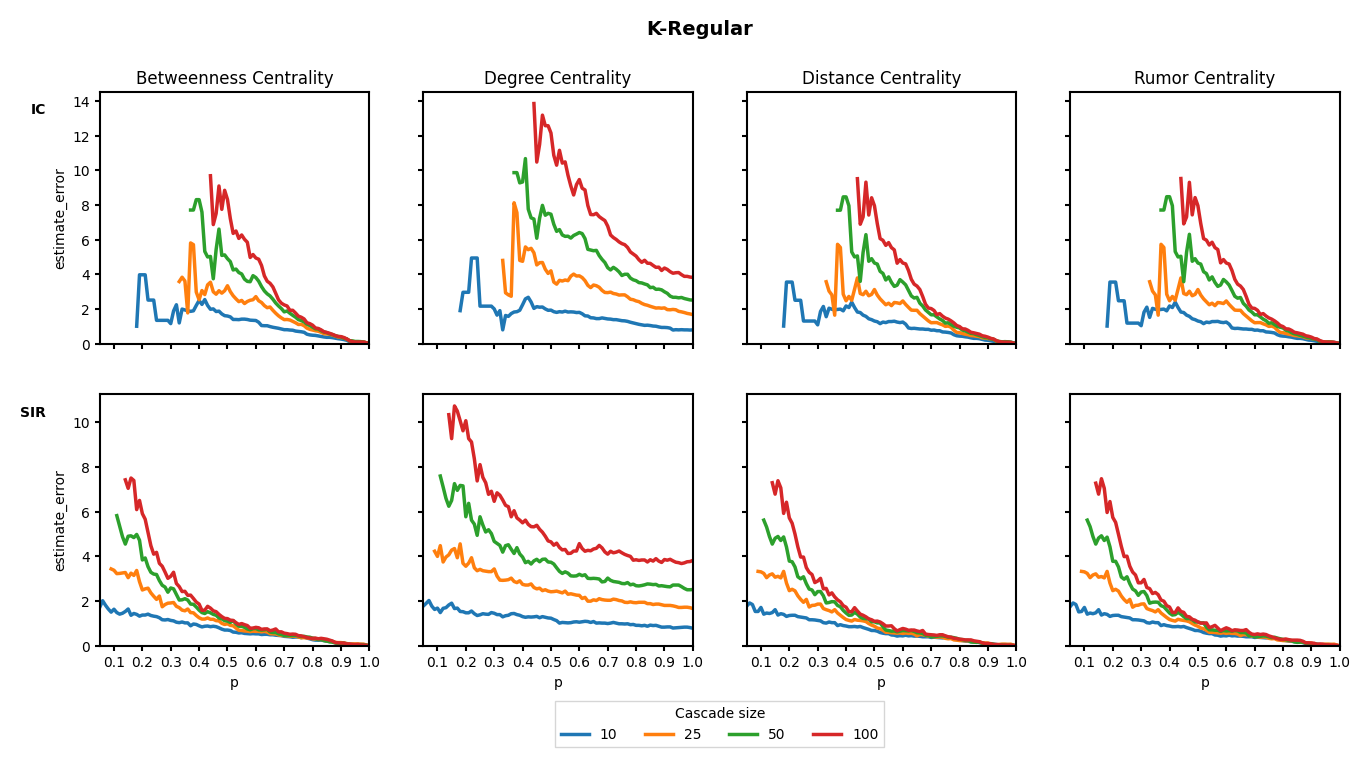
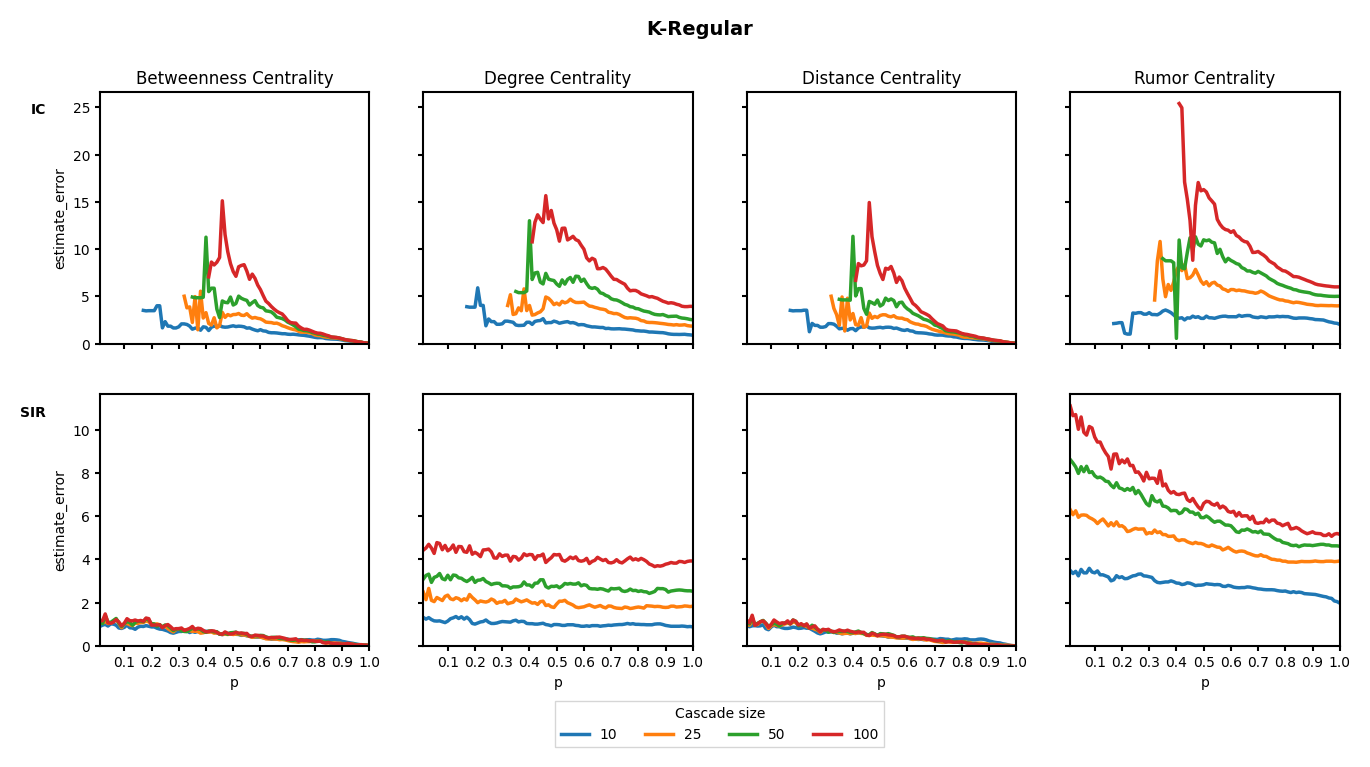
fix

diff --git a/src/patient_zero/experiments/centrality.py b/src/patient_zero/experiments/centrality.py
@@ -4,26 +4,56 @@ Centrality measures
 import math
 import networkx as nx
 
-def dfs(n: int, p: int | None, bfs_tree: nx.DiGraph, subtree_sizes: set) -> int:
+def compute_subtree_sizes(tree: nx.DiGraph, node: int, parent: int | None, subtree: dict[int, int], log_prod: dict[int, float]):
     """Run DFS from node n with parent p to recursiely get the subtree size all nodes.
 
     Args:
-        n (int): Root of dfs.
-        p (int | None): Parent node. None when n is root.
-        bfs_tree (nx.DiGraph): The bfs tree graph to run the search on.
-        subtree_sizes (set): The set of subtree sizes for all nodes in bfs_tree.
-
-    Returns:
-        int: The subtree size of node n.
+        tree (nx.DiGraph): The bfs tree graph to run the search on.
+        node (int): The current node being visited (parent in the first call).
+        parent (int | None): Parent node. None when n is root.
+        subtree (dict): The dictionary of subtree sizes for all nodes in the tree.
     """
-    subtree_sizes[n] = 1 # Root size is 1.
-    for neighbor in bfs_tree.neighbors(n): # Loops over neighbors in the BFS tree.
-        if neighbor != p:
-            subtree_sizes[n] += dfs(neighbor, n, bfs_tree, subtree_sizes) # Recursively calls itself with the new neighbor node and Calculates the subtree size.
-    return subtree_sizes[n]
+    subtree[node] = 1 # Root size is 1.
+    log_prod[node] = 0.0 # Cumulative product (log(1) = 0)
 
-def rumor_centrality(cascade: nx.Graph) -> dict:
+    for neighbor in tree.neighbors(node): # Loops over neighbors in the BFS tree.
+        if neighbor == parent:
+            continue
+        # Recursively calls itself with the new neighbor node and calculates the subtree size.
+        compute_subtree_sizes(tree, neighbor, node, subtree, log_prod)
+
+        # The below is described in sec. 3.2 of Who's the Culprit.
+        subtree[node] += subtree[neighbor] # Message passing of subtree sizes
+        # log_prod corresponds to taking the product of all subtree sizes rooted at root (the denominator of the fraction)
+        # log(s1 * s2 * ...) = log(s1) + log(s2) + ...
+        log_prod[node] += math.log(subtree[neighbor]) # Message passing of commulative product
+
+    log_prod[node] += math.log(subtree[node]) # Include current nodes subtree
+
+
+def propagate_scores(tree: nx.DiGraph, node: int, parent: int | None, subtree: dict, scores: dict[int, float], n: int):
+    """DFS to propagate rumor centrality scores on a BFS tree.
+
+    Args:
+        tree (nx.DiGraph): The BFS tree of the cascade graph.
+        node (int): The current node being visited (parent in the first call).
+        parent (int | None): The parent of the current node in the DFS. None when node is root.
+        subtree (dict): Dictionary mapping each node to the size of its subtree.
+        scores (dict[int, float]): Dictionary storing the log rumor centrality scores for each node.
+        n (int): Total number of nodes in the tree.
+    """
+    for nbr in tree.neighbors(node):
+        if nbr == parent:
+            continue
+        scores[nbr] = scores[node] + math.log(n - subtree[nbr]) - math.log(subtree[nbr])
+        propagate_scores(tree, nbr, node, subtree, scores, n)
+
+
+def rumor_centrality(cascade: nx.Graph) -> dict[int, float]:
     """Calculates the rumor centrality for all nodes in a graph.
+    Note: For general graphs with cycles, this function computes rumor centrality
+    approximately using BFS trees rooted at each node, following the approach
+    from "Who's the Culprit?" by Shah & Zaman (2011).
 
     Args:
         cascade (nx.Graph): NetworkX graph.
@@ -31,22 +61,36 @@ def rumor_centrality(cascade: nx.Graph) -> dict:
     Returns:
         dict: Dictionary of nodes and their rumor score.
     """
-    node_scores = {}
-    
-    for node in list(cascade.nodes): # Loops through every node in the cascade and calculates the rumor score for that node.
-        bfs_tree = nx.bfs_tree(cascade, node) # Creates a BFS tree for that specific node.
-        subtree_sizes = {}
-        dfs(node, None, bfs_tree, subtree_sizes) # Uses Depth-First-Search on the node with the BFS tree to calculate subtree sizes.
-        
-        prod = 0
-        for tree_node in bfs_tree.nodes: # Computes the product of all subtree sizes.
-            prod += math.log(subtree_sizes[tree_node]) # prod = product of T[u] for all nodes u in the BFS tree.
-        
-        if prod == 0.0: # If the cascade is one return a default score of 1
-            node_scores[node] = 1
-            return node_scores
-        node_scores[node] = -math.log(prod) # Compute root's rumor centrality. R(root) = n! / prod = -ln(prod)
-    return node_scores
+    all_scores = {}
+    n = cascade.number_of_nodes()
+
+    is_tree_graph = nx.is_tree(cascade)
+    for root in cascade.nodes: # Loops through every node in the cascade and calculates the rumor score for that node.
+        # Create BFS tree rooted at the candidate node
+        if is_tree_graph: # No need to compute BFS tree for general trees.
+            tree_to_use = cascade
+        else:
+            tree_to_use = nx.bfs_tree(cascade, root)
+
+        # Compute subtree sizes
+        subtree = {}
+        log_prod = {}
+        # Uses Depth-First-Search on the node with the BFS tree to calculate subtree sizes and log_prod via message passing.
+        compute_subtree_sizes(tree_to_use, root, None, subtree, log_prod)
+
+        # math.lgamma(n+1) = log(n!). log(A/B) is the same as log(A) - log(B)
+        scores = {}
+        scores[root] = math.lgamma(n + 1) - log_prod[root]
+
+        if is_tree_graph:
+            # Propagate scores down the tree
+            propagate_scores(tree_to_use, root, None, subtree, scores, n)
+            return scores # no need to run dfs mulitple times for general trees
+
+        # Store the score of the root
+        all_scores[root] = scores[root] # Just compare rumor centralities as log form to avoid overflow.
+
+    return all_scores
 
 
 def degree_centrality(cascade: nx.Graph) -> dict:

diff --git a/src/patient_zero/experiments/simulations.py b/src/patient_zero/experiments/simulations.py
@@ -9,7 +9,7 @@ from concurrent.futures import ProcessPoolExecutor, as_completed
 import pickle
 import numpy as np
 import networkx as nx
-from patient_zero.networks import create_tree_graph, create_k_regular_graph, create_random_graph, create_scale_free_graph, create_small_world_graph
+from patient_zero.networks import create_balanced_tree_graph, create_k_regular_graph, create_random_graph, create_scale_free_graph, create_small_world_graph
 from patient_zero.models import ic, sir
 from patient_zero.networks.utils import get_random_node
 from patient_zero.enums import NetworkType, ModelType
@@ -18,7 +18,7 @@ BASE_PATH = Path(__file__).resolve().parent
 
 # Worst case number of tries = MAX_ATTEMPTS_PER_SIM * MAX_SIMULATIONS * len(p_values)
 MAX_ATTEMPTS_PER_SIM = 1_000 # attempts per simulation
-MAX_SIMULATIONS = 10_000 # max number of simulations. Will stop early if enough successful cascades have been made
+MAX_SIMULATIONS = 1_000 # max number of simulations. Will stop early if enough successful cascades have been made
 
 
 def run_simulation(
@@ -144,8 +144,8 @@ def get_graph(graph_type, graph_seed, **params):
         return create_small_world_graph(n=params.get("nodes"), k=params.get("neighbors"), p=params.get("probability"), seed=graph_seed)
     if graph_type == NetworkType.SCALE_FREE.value:
         return create_scale_free_graph(n=params.get("nodes"), e=params.get("edges"), seed=graph_seed)
-    if graph_type == NetworkType.TREE.value:
-        return create_tree_graph(c=params.get("children"), d=params.get("depth"))
+    if graph_type == NetworkType.BALANCED_TREE.value:
+        return create_balanced_tree_graph(c=params.get("children"), d=params.get("depth"))
     raise ValueError(f"Unknown graph type: {graph_type}")
 
 

diff --git a/src/patient_zero/experiments/experiments.py b/src/patient_zero/experiments/experiments.py
@@ -100,10 +100,12 @@ def main():
         for i, result in enumerate(executor.map(process_cascade, cascade_tasks(pkl_files), chunksize=1_000)): # process cascades in chunks of 1k per process
             buffer.extend(result)
 
+            if (i+1) % 10_000 == 0:
+                print(f"Processed {i+1} cascades")
+
             if (i+1) % 100_000 == 0: # write results to csv from buffer in batches of 100k
                 pd.DataFrame(buffer).to_csv(OUTPUT_FILE, index=False, mode='a', header=False)
                 buffer = []
-                print(f"Processed {i+1} cascades")
 
         if buffer: # write remaining
             pd.DataFrame(buffer).to_csv(OUTPUT_FILE, index=False, mode='a', header=False)

diff --git a/src/patient_zero/networks/__init__.py b/src/patient_zero/networks/__init__.py
@@ -1,3 +1,3 @@
-from .networks import create_tree_graph, create_k_regular_graph, create_random_graph, create_small_world_graph, create_scale_free_graph
+from .networks import create_balanced_tree_graph, create_k_regular_graph, create_random_graph, create_small_world_graph, create_scale_free_graph
 
-__all__ = ["create_tree_graph", "create_k_regular_graph", "create_random_graph", "create_small_world_graph", "create_scale_free_graph"]
+__all__ = ["create_balanced_tree_graph", "create_k_regular_graph", "create_random_graph", "create_small_world_graph", "create_scale_free_graph"]

diff --git a/src/patient_zero/experiments/__init__.py b/src/patient_zero/experiments/__init__.py
@@ -1,6 +1,6 @@
 
 from .utils import pkl_to_cascade, get_network_title, get_centrality_title
-from .centrality import degree_centrality, distance_centrality, betweenness_centrality, rumor_centrality, dfs
+from .centrality import degree_centrality, distance_centrality, betweenness_centrality, rumor_centrality
 from .experiments import get_estimate_error, get_rank
 
 __all__ = [

diff --git a/src/patient_zero/networks/networks.py b/src/patient_zero/networks/networks.py
@@ -4,7 +4,7 @@ This module is just a wrapper around the existing NetworkX graph creation functi
 """
 import networkx as nx
 
-def create_tree_graph(c: int, d: int) -> nx.Graph:
+def create_balanced_tree_graph(c: int, d: int) -> nx.Graph:
     """Creates a perfectly balanced tree graph with c children and depth d.
 
     Args:

diff --git a/src/patient_zero/experiments/utils.py b/src/patient_zero/experiments/utils.py
@@ -51,6 +51,6 @@ def get_network_title(key):
         return "Scale-free"
     if key == NetworkType.SMALL_WORLD.value: 
         return "Small World"
-    if key == NetworkType.TREE.value: 
+    if key == NetworkType.BALANCED_TREE.value: 
         return "Balanced Tree"
     raise ValueError(f"Unknown network: {key}")

diff --git a/src/patient_zero/enums.py b/src/patient_zero/enums.py
@@ -2,7 +2,7 @@
 from enum import Enum
 
 class NetworkType(Enum):
-    TREE = "balanced_tree"
+    BALANCED_TREE = "balanced_tree"
     REGULAR = "k_regular"
     RANDOM = "erdos_renyi"
     SMALL_WORLD = "watts_strogatz"
